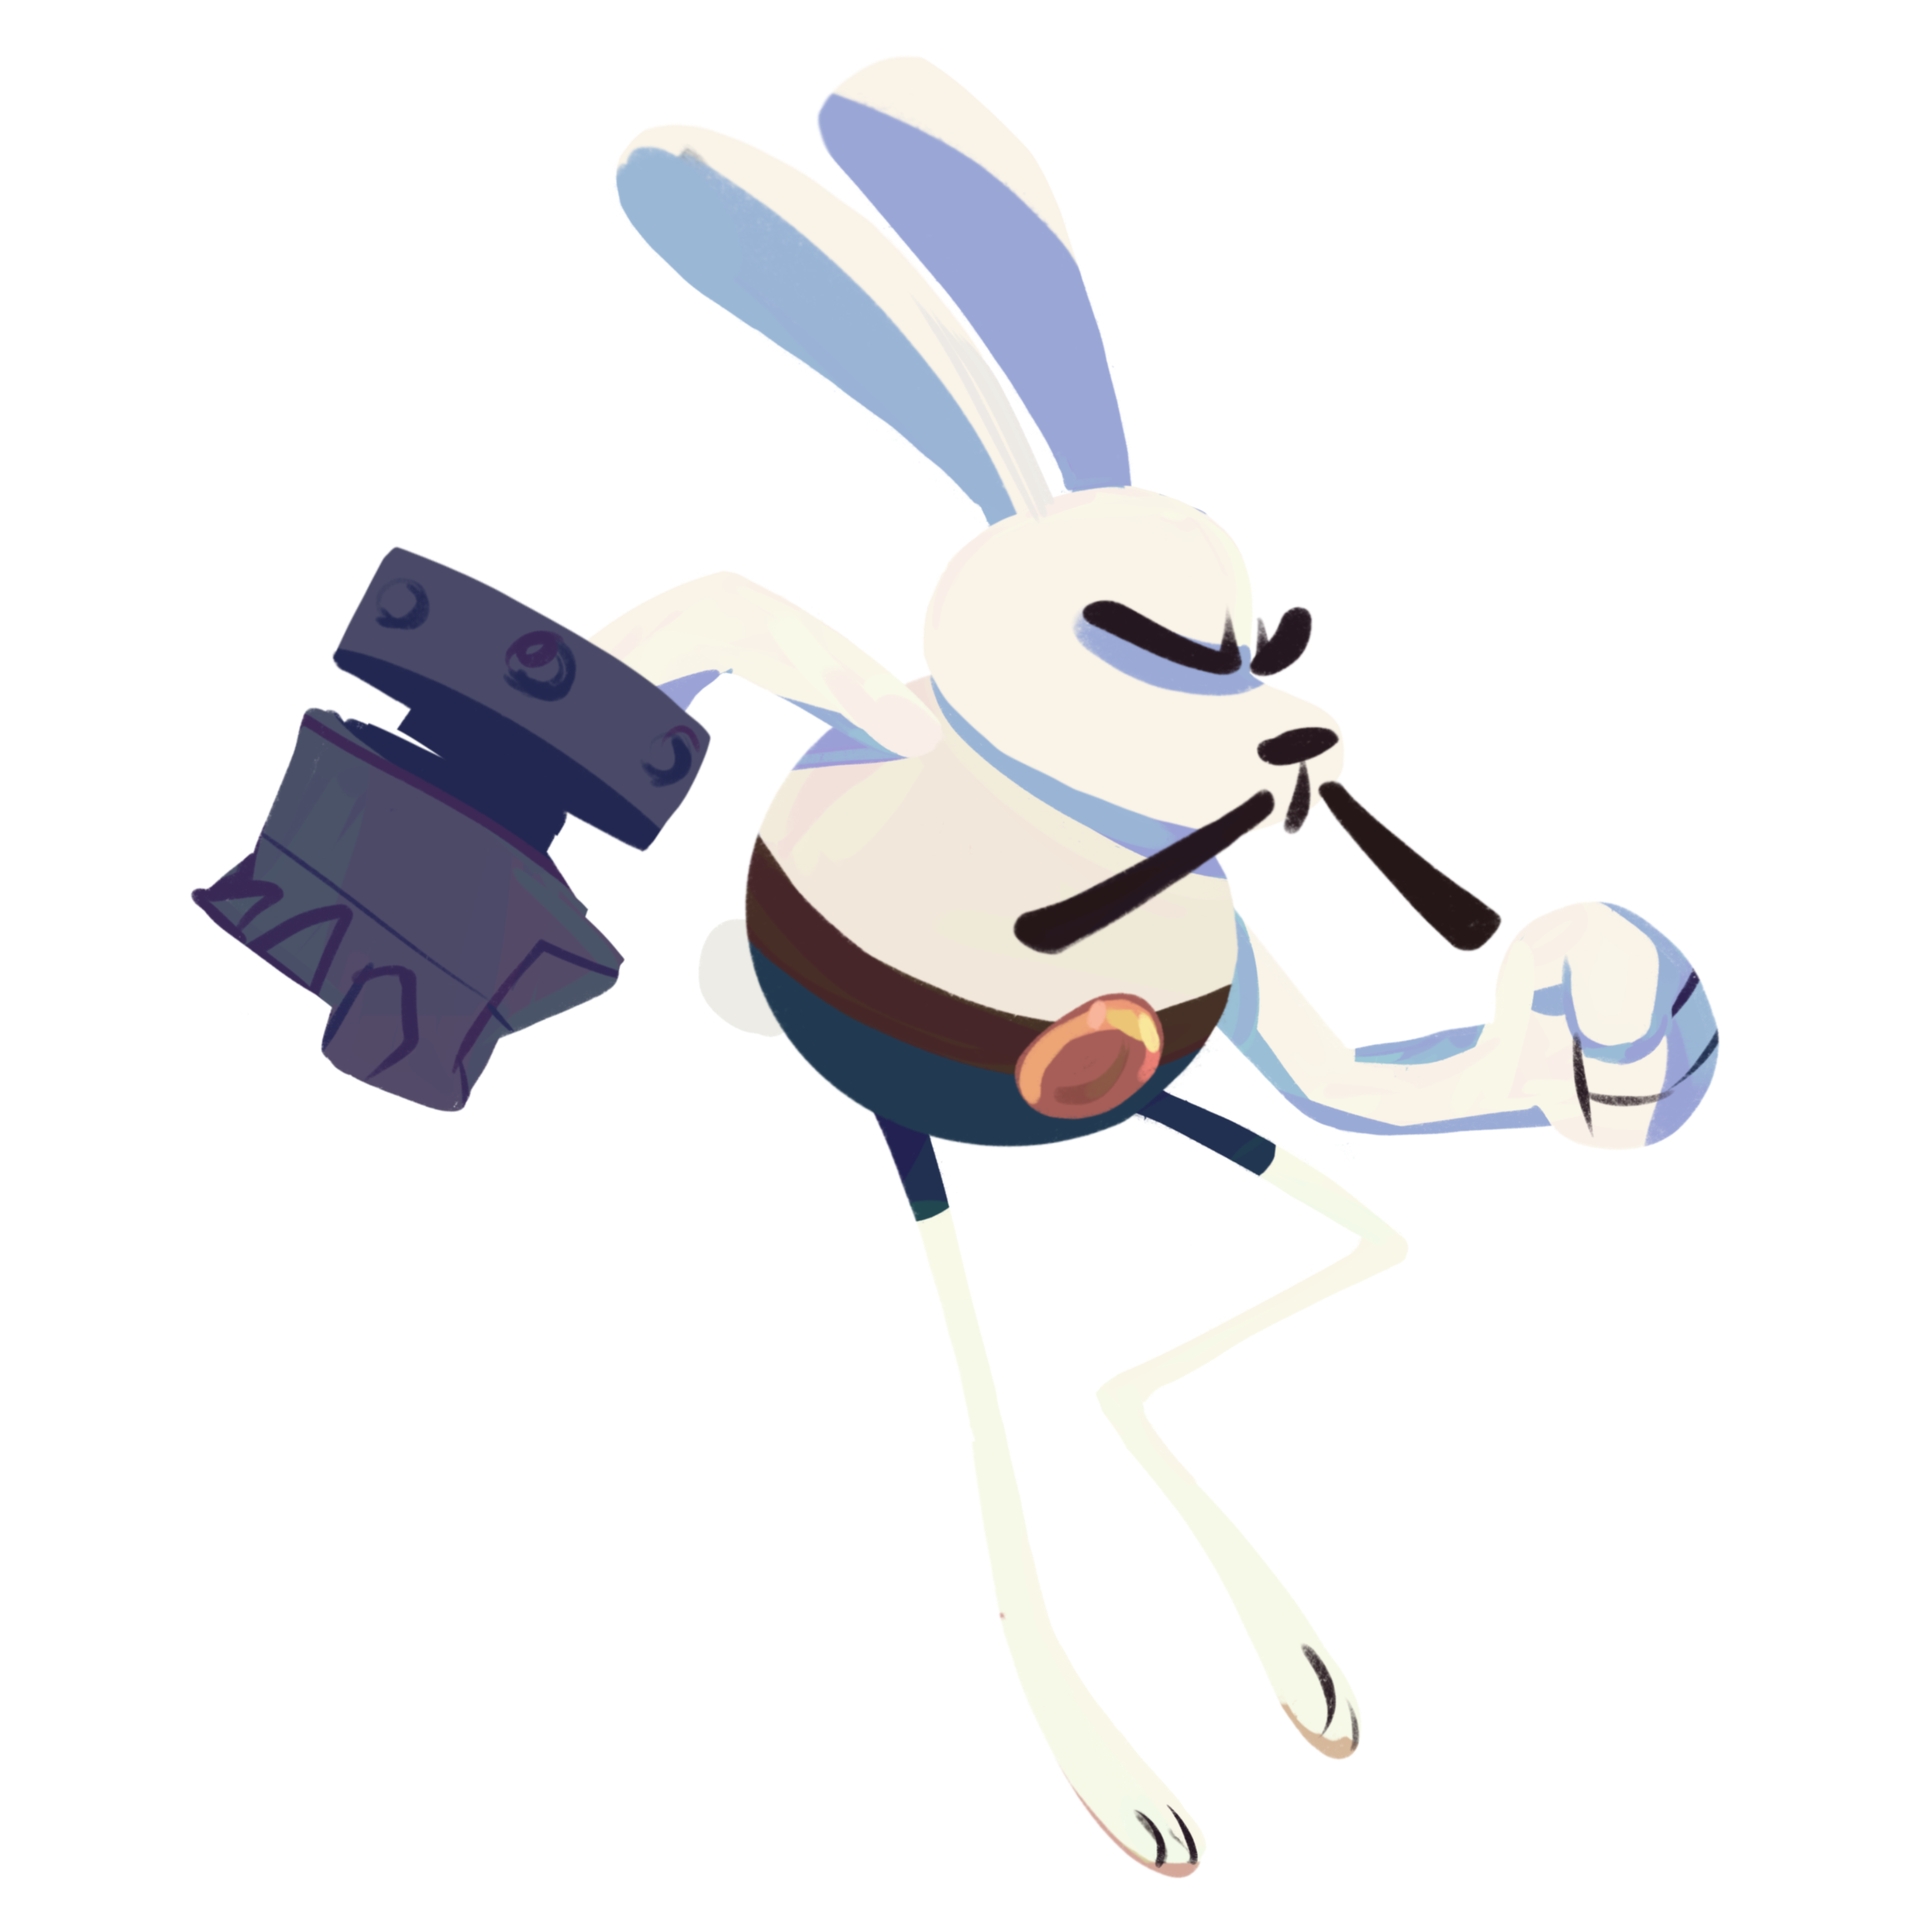
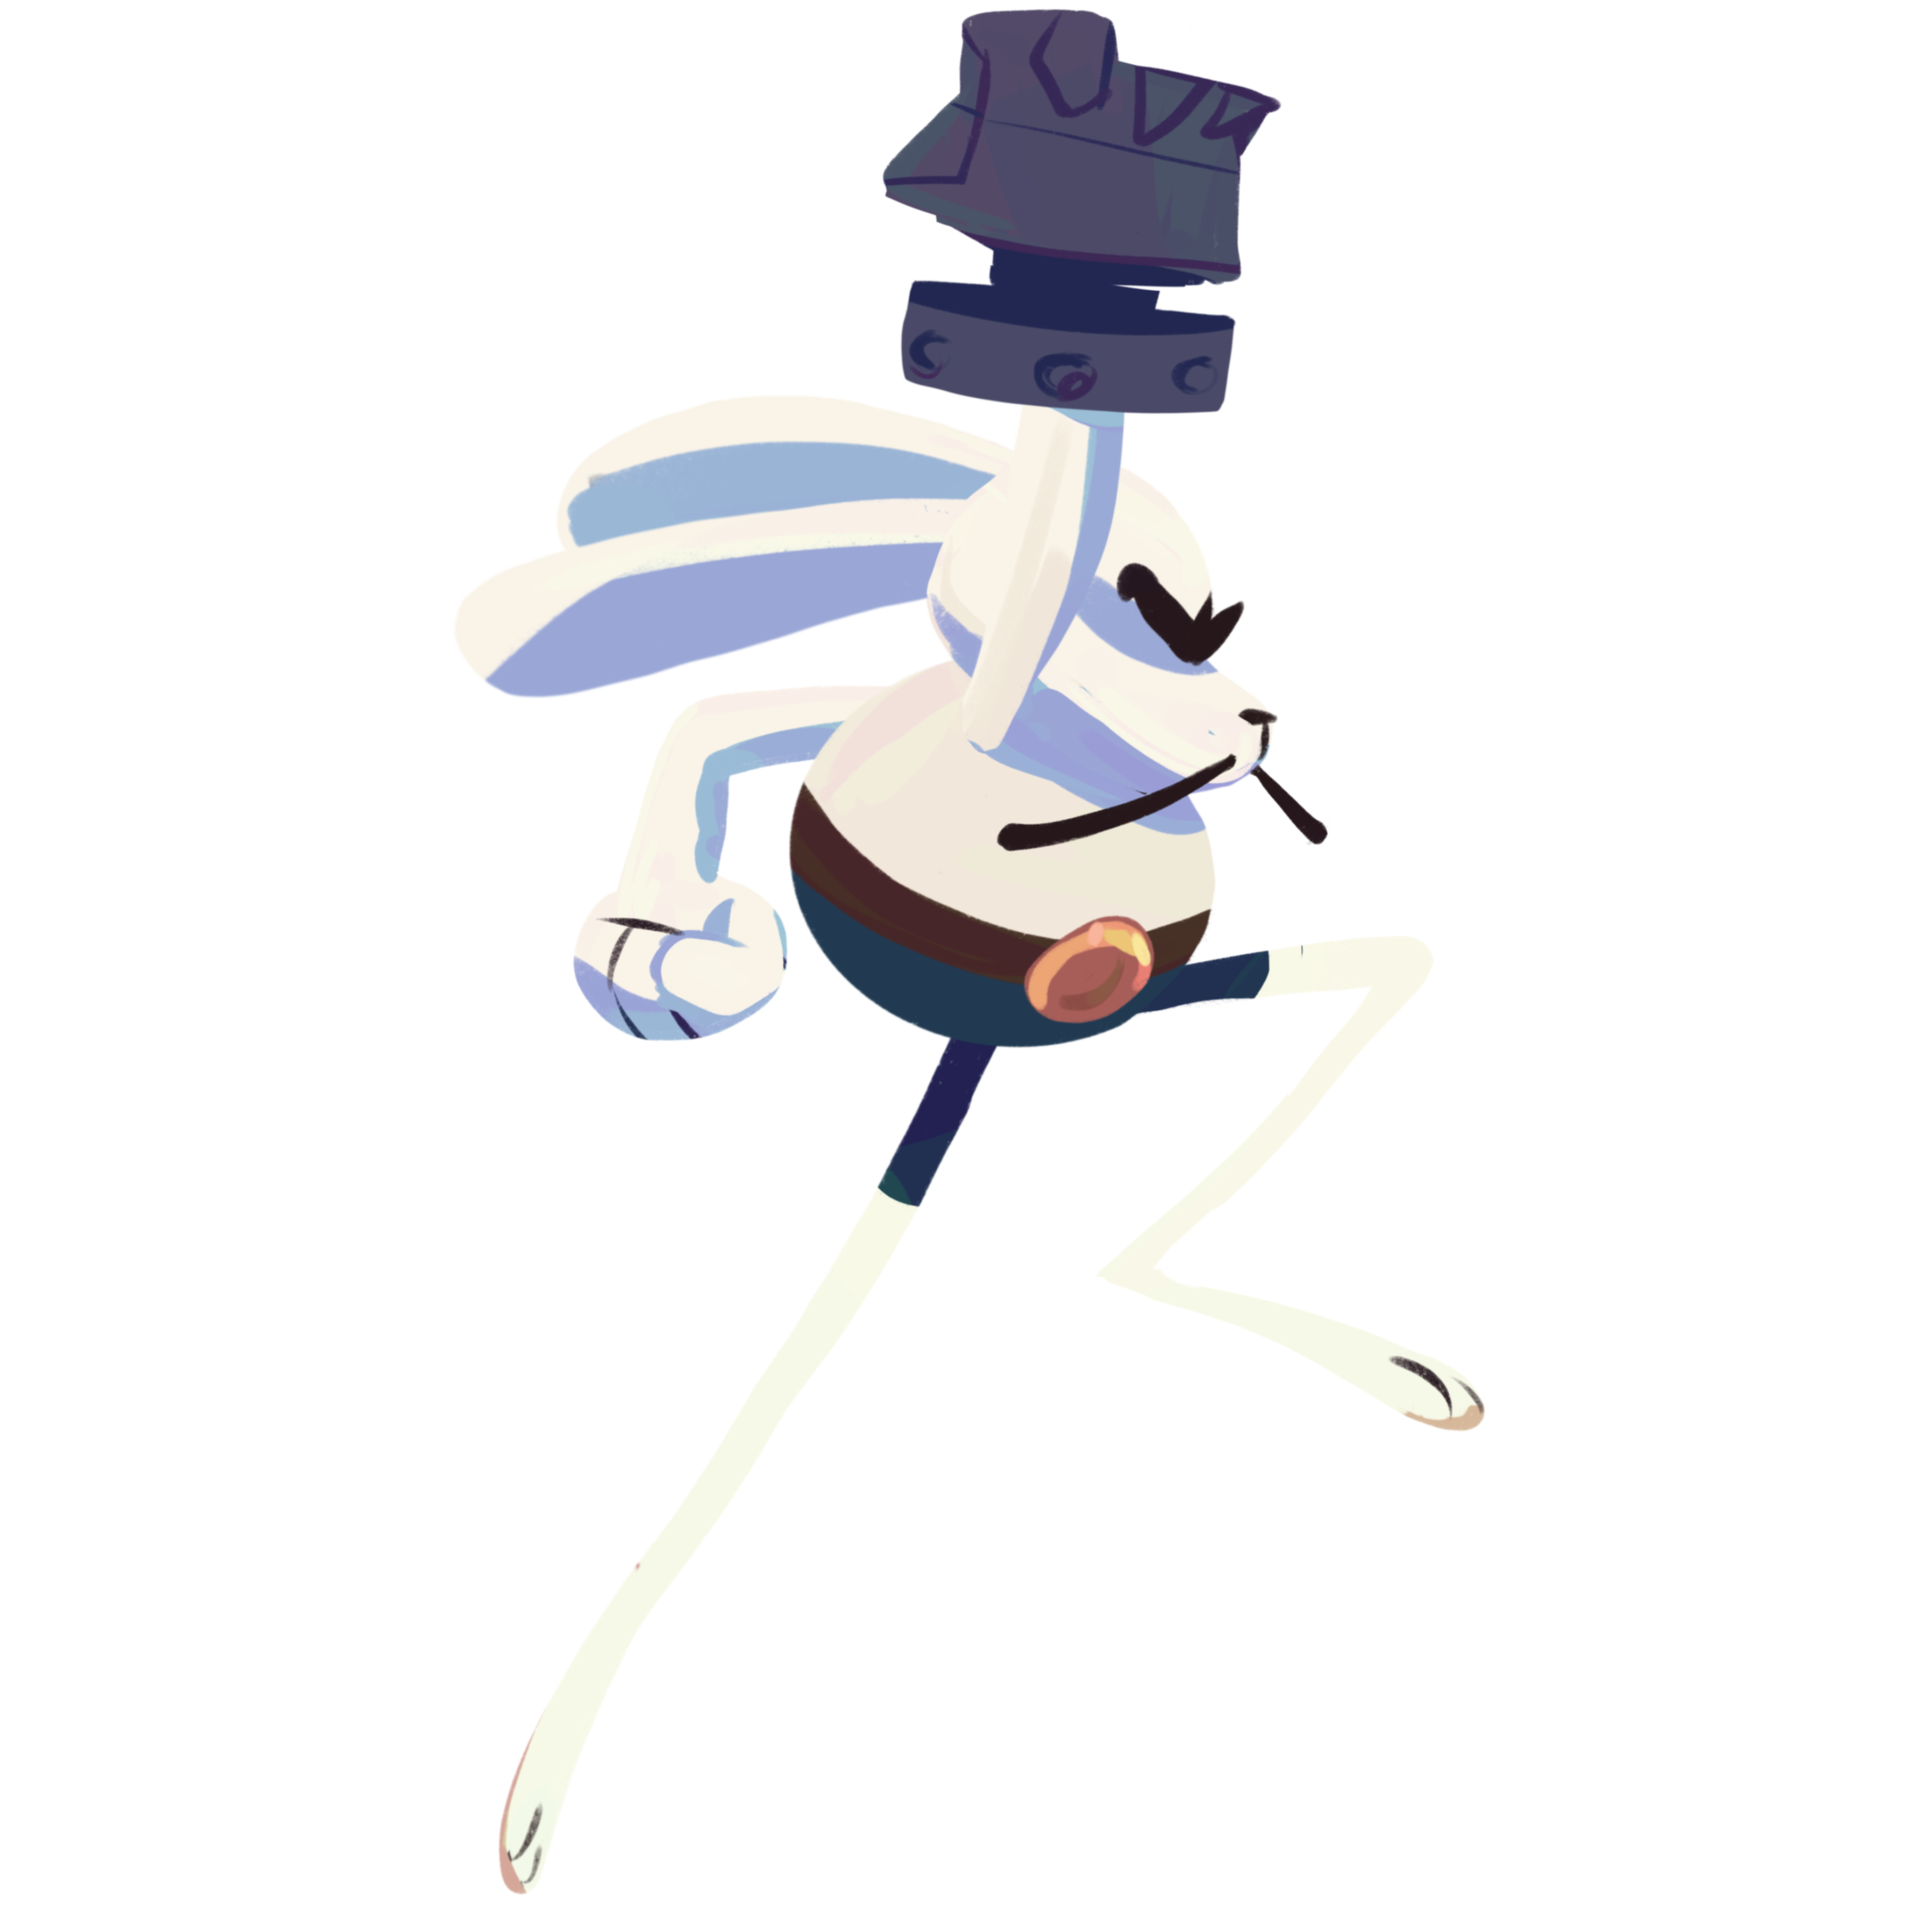
Add jump and fall animation

diff --git a/Assets/_Code/Game.Core/StateMachine/GameplayState.cs b/Assets/_Code/Game.Core/StateMachine/GameplayState.cs
@@ -218,6 +218,11 @@ namespace Game.Core
 						entity.Velocity.x = 0;
 					}
 
+					if (entity.Velocity.y < 0)
+					{
+						entity.Animator?.Play(Animator.StringToHash("Fall"));
+					}
+
 					if (Time.time >= entity.StartDiggingTimestamp && entity.StartDiggingTimestamp > 0)
 					{
 						entity.StartDiggingTimestamp = 0;
@@ -226,6 +231,7 @@ namespace Game.Core
 
 					// apply gravity before moving
 					entity.Velocity.y += entity.Gravity * Time.deltaTime;
+
 
 					entity.Controller.move(entity.Velocity * Time.deltaTime);
 
